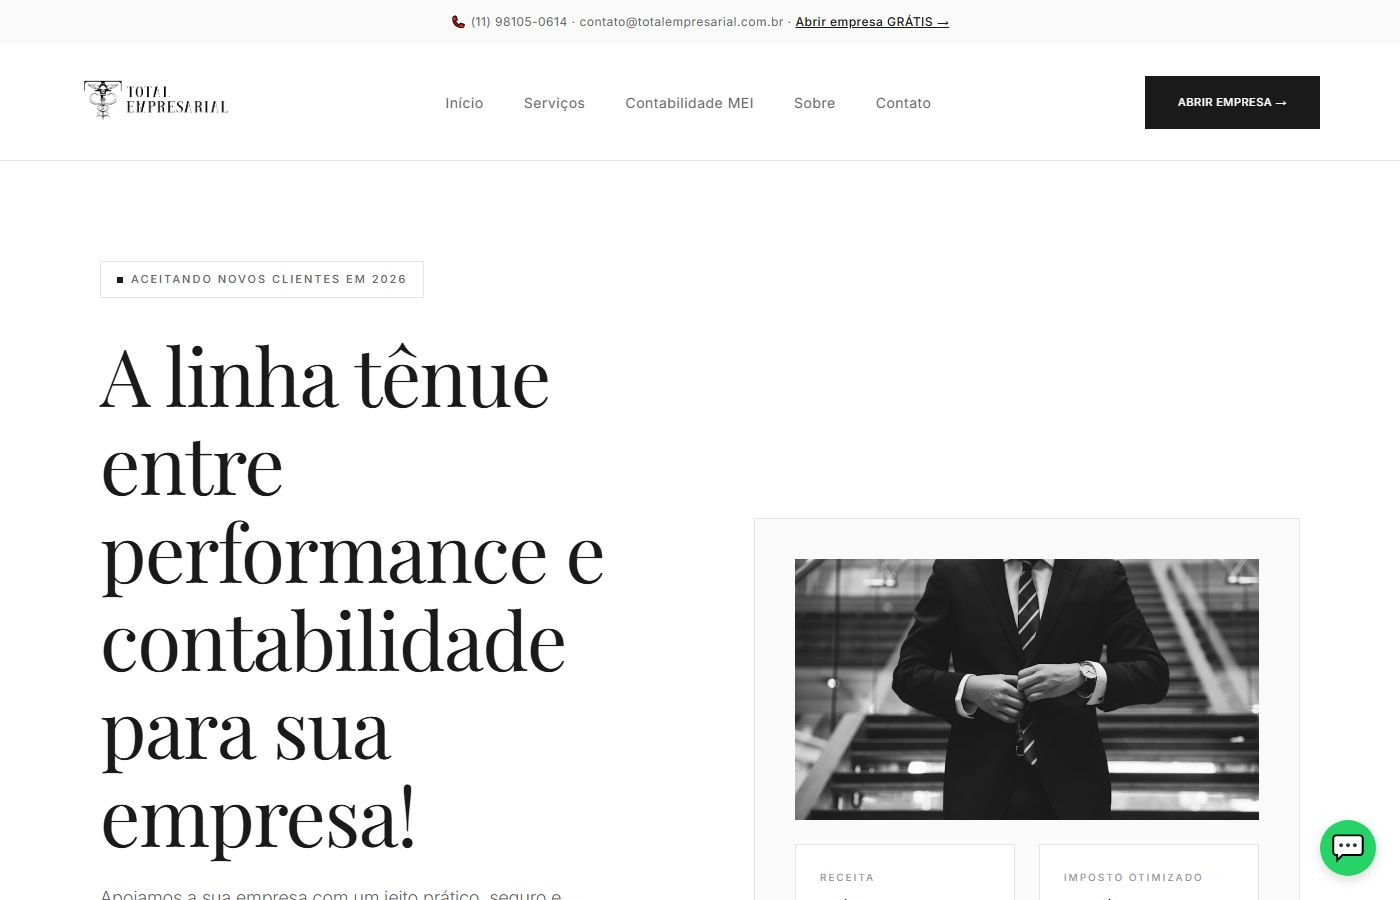
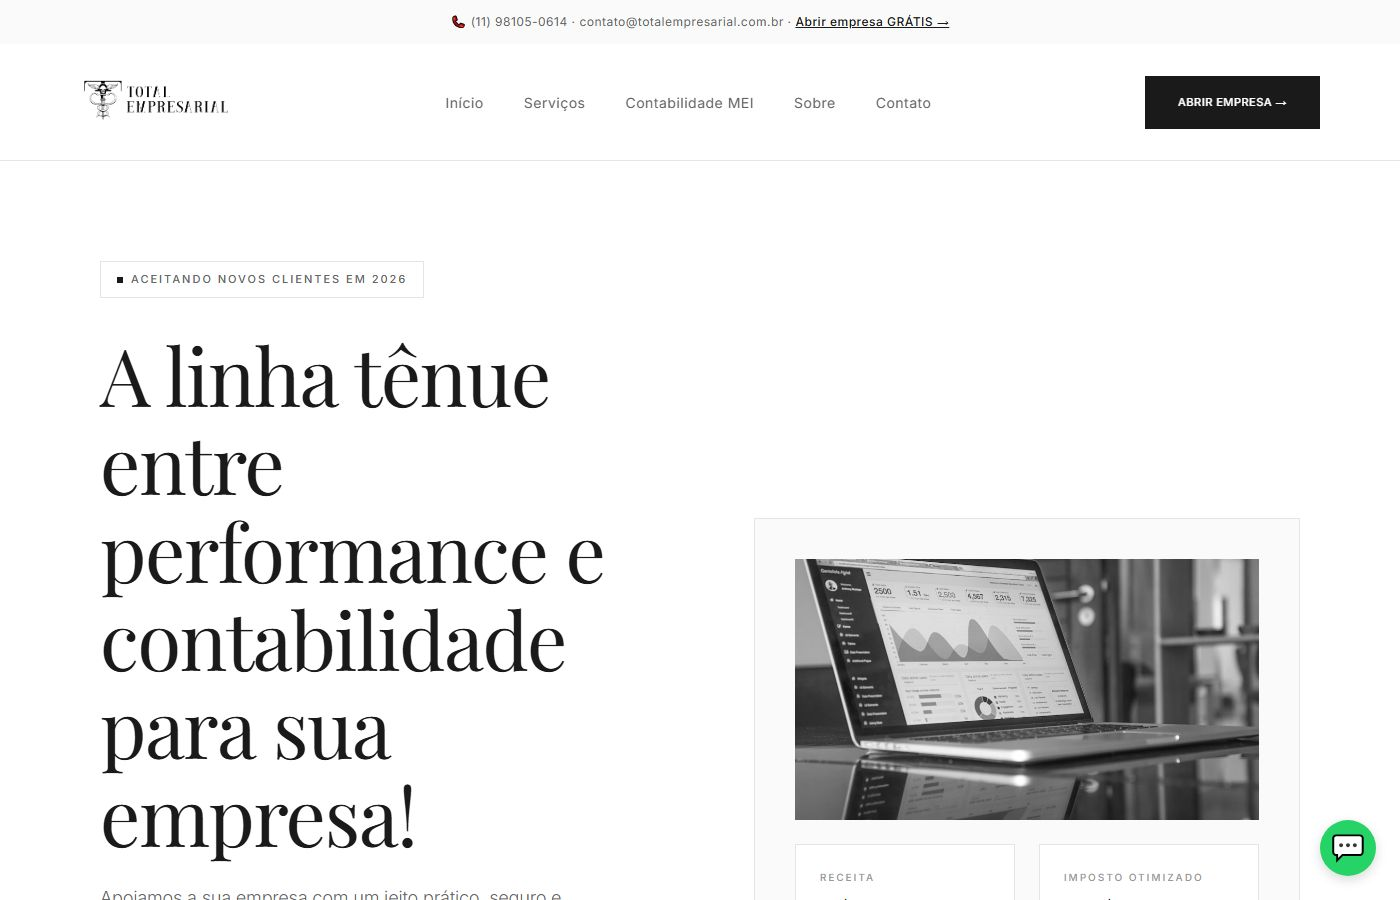
Substituir ultima imagem com pessoa (modelo-10-minimal) por graficos/analytics

Changed region(s): [[0.5529, 0.6222, 0.9214, 0.9333]]

diff --git a/servicos/portal/modelos/empresarial/modelo-1-editorial.html b/servicos/portal/modelos/empresarial/modelo-1-editorial.html
@@ -544,7 +544,7 @@ footer { background: var(--ink); color: rgba(255,255,255,0.65); padding: 80px 0 
       <div class="section-tag">Sobre Nós</div>
       <h2>Sobre Nós</h2>
       <div class="about-img-2" style="margin-top:32px;">
-        <img src="https://images.unsplash.com/photo-1522071820081-009f0129c71c?w=1000&q=80" alt="Equipe de contabilidade">
+        <img src="https://images.unsplash.com/photo-1553877522-43269d4ea984?w=1000&q=80" alt="Equipe de contabilidade">
       </div>
     </div>
     <div class="reveal about-text">
@@ -578,7 +578,7 @@ footer { background: var(--ink); color: rgba(255,255,255,0.65); padding: 80px 0 
       Migrar para a Total foi a melhor decisão. Pela primeira vez tenho clareza dos números e tempo para focar no que importa: meu negócio.
     </div>
     <div class="testimonial-author">
-      <div class="author-img"><img src="https://images.unsplash.com/photo-1554224155-8d04cb21cd6c?w=200&q=80" alt="Marina Costa"></div>
+      <div class="author-img"><img src="https://images.unsplash.com/photo-1554224155-6726b3ff858f?w=200&q=80" alt="Marina Costa"></div>
       <div>
         <div class="author-name">Marina Costa</div>
         <div class="author-role">CEO · Studio Marina · cliente desde 2022</div>

diff --git a/servicos/portal/modelos/empresarial/modelo-10-minimal.html b/servicos/portal/modelos/empresarial/modelo-10-minimal.html
@@ -471,7 +471,7 @@ footer { background: var(--bg-2); padding: 100px 0 40px; border-top: 1px solid v
     <div class="reveal">
       <div class="hero-visual">
         <div class="dash-photo">
-          <img src="https://images.unsplash.com/photo-1507679799987-c73779587ccf?w=900&q=80" alt="">
+          <img src="https://images.unsplash.com/photo-1460925895917-afdab827c52f?w=900&q=80" alt="">
           <div class="dash-photo-label">Receita do mês</div>
         </div>
         <div class="dash-row">
@@ -541,7 +541,7 @@ footer { background: var(--bg-2); padding: 100px 0 40px; border-top: 1px solid v
   <div class="wrap about-grid">
     <div class="reveal">
       <div class="about-image">
-        <img src="https://images.unsplash.com/photo-1554224155-8d04cb21cd6c?w=900&q=80" alt="Profissional contábil">
+        <img src="https://images.unsplash.com/photo-1554224155-6726b3ff858f?w=900&q=80" alt="Profissional contábil">
         <div class="about-badge">
           <div class="ic">★</div>
           <div>

diff --git a/servicos/portal/modelos/empresarial/modelo-8-luxury.html b/servicos/portal/modelos/empresarial/modelo-8-luxury.html
@@ -689,7 +689,7 @@ footer {
     </div>
     <div>
       <div class="hero-image">
-        <img src="https://images.unsplash.com/photo-1560250097-0b93528c311a?w=800&q=80" alt="Executivo profissional">
+        <img src="https://images.unsplash.com/photo-1460925895917-afdab827c52f?w=800&q=80" alt="Executivo profissional">
         <div class="hero-badge">
           <div class="hero-badge-label">Patrimônio sob gestão</div>
           <div class="hero-badge-value">R$ 12.4M</div>
@@ -743,7 +743,7 @@ footer {
   <div class="wrap about-grid">
     <div>
       <div class="about-image">
-        <img src="https://images.unsplash.com/photo-1560250097-0b93528c311a?w=800&q=80" alt="Equipe profissional">
+        <img src="https://images.unsplash.com/photo-1460925895917-afdab827c52f?w=800&q=80" alt="Equipe profissional">
         <div class="about-image-frame"></div>
       </div>
     </div>

diff --git a/servicos/portal/modelos/empresarial/modelo-11-neumorphism.html b/servicos/portal/modelos/empresarial/modelo-11-neumorphism.html
@@ -453,7 +453,7 @@ footer {
         <div class="lbl">Economia/mês</div>
       </div>
       <div class="hero-frame neu-flat">
-        <img src="https://images.unsplash.com/photo-1554224155-8d04cb21cd6c?w=900&q=80" alt="">
+        <img src="https://images.unsplash.com/photo-1554224155-6726b3ff858f?w=900&q=80" alt="">
       </div>
     </div>
   </div>

diff --git a/servicos/portal/modelos/empresarial/modelo-12-cyberpunk.html b/servicos/portal/modelos/empresarial/modelo-12-cyberpunk.html
@@ -494,7 +494,7 @@ footer {
         <div class="lbl">ECONOMIA/MÊS</div>
       </div>
       <div class="hero-frame">
-        <img src="https://images.unsplash.com/photo-1554224155-8d04cb21cd6c?w=900&q=80" alt="">
+        <img src="https://images.unsplash.com/photo-1554224155-6726b3ff858f?w=900&q=80" alt="">
       </div>
     </div>
   </div>

diff --git a/servicos/portal/modelos/empresarial/modelo-15-aurora.html b/servicos/portal/modelos/empresarial/modelo-15-aurora.html
@@ -550,7 +550,7 @@ footer { padding: 64px 0 24px; border-top: 1px solid var(--line); margin-top: 80
       <div class="hero-visual">
         <div class="orb orb-1"></div>
         <div class="orb orb-2"></div>
-        <img src="https://images.unsplash.com/photo-1554224155-8d04cb21cd6c?w=900&q=80" alt="">
+        <img src="https://images.unsplash.com/photo-1554224155-6726b3ff858f?w=900&q=80" alt="">
       </div>
       <div class="float-stat float-1"><div class="ic">📈</div><div><div class="num">R$ 1.840</div><div class="lbl">economia / mês</div></div></div>
       <div class="float-stat float-2"><div class="ic">⭐</div><div><div class="num">4,9 / 5</div><div class="lbl">avaliação</div></div></div>

diff --git a/servicos/portal/modelos/empresarial/modelo-2-esmeralda.html b/servicos/portal/modelos/empresarial/modelo-2-esmeralda.html
@@ -563,7 +563,7 @@ footer { background: var(--paper); padding: 80px 0 24px; border-top: 1px solid v
   <div class="wrap about-grid">
     <div class="reveal">
       <div class="about-image">
-        <img src="https://images.unsplash.com/photo-1554224155-8d04cb21cd6c?w=900&q=80" alt="Profissional contábil">
+        <img src="https://images.unsplash.com/photo-1554224155-6726b3ff858f?w=900&q=80" alt="Profissional contábil">
         <div class="about-badge">
           <div class="ic">★</div>
           <div>

diff --git a/servicos/portal/modelos/empresarial/modelo-3-brutalist.html b/servicos/portal/modelos/empresarial/modelo-3-brutalist.html
@@ -618,7 +618,7 @@ footer {
         <div><div class="num">- 1.840</div><div class="lbl">Economia / mês</div></div>
       </div>
       <div class="hero-frame">
-        <img src="https://images.unsplash.com/photo-1554224155-8d04cb21cd6c?w=900&q=80" alt="">
+        <img src="https://images.unsplash.com/photo-1554224155-6726b3ff858f?w=900&q=80" alt="">
         <div class="caption">CLIENTE FELIZ #427</div>
       </div>
     </div>

diff --git a/servicos/portal/modelos/empresarial/modelo-4-swiss.html b/servicos/portal/modelos/empresarial/modelo-4-swiss.html
@@ -399,7 +399,7 @@ footer {
       </div>
     </div>
     <div class="reveal hero-image">
-      <img src="https://images.unsplash.com/photo-1554224155-8d04cb21cd6c?w=900&q=80" alt="">
+      <img src="https://images.unsplash.com/photo-1554224155-6726b3ff858f?w=900&q=80" alt="">
     </div>
   </div>
 </section>

diff --git a/servicos/portal/modelos/empresarial/modelo-5-pastel.html b/servicos/portal/modelos/empresarial/modelo-5-pastel.html
@@ -479,7 +479,7 @@ footer {
         <div class="lbl">Economia/mês</div>
       </div>
       <div class="hero-frame">
-        <img src="https://images.unsplash.com/photo-1554224155-8d04cb21cd6c?w=900&q=80" alt="">
+        <img src="https://images.unsplash.com/photo-1554224155-6726b3ff858f?w=900&q=80" alt="">
       </div>
     </div>
   </div>

diff --git a/servicos/portal/modelos/empresarial/modelo-6-glass.html b/servicos/portal/modelos/empresarial/modelo-6-glass.html
@@ -482,7 +482,7 @@ footer {
         <div class="lbl">Economia/mês</div>
       </div>
       <div class="hero-frame">
-        <img src="https://images.unsplash.com/photo-1554224155-8d04cb21cd6c?w=900&q=80" alt="">
+        <img src="https://images.unsplash.com/photo-1554224155-6726b3ff858f?w=900&q=80" alt="">
       </div>
     </div>
   </div>

diff --git a/servicos/portal/modelos/empresarial/modelo-7-retro.html b/servicos/portal/modelos/empresarial/modelo-7-retro.html
@@ -444,7 +444,7 @@ footer {
         <div class="lbl">Economia/mês</div>
       </div>
       <div class="hero-frame">
-        <img src="https://images.unsplash.com/photo-1554224155-8d04cb21cd6c?w=900&q=80" alt="">
+        <img src="https://images.unsplash.com/photo-1554224155-6726b3ff858f?w=900&q=80" alt="">
       </div>
     </div>
   </div>